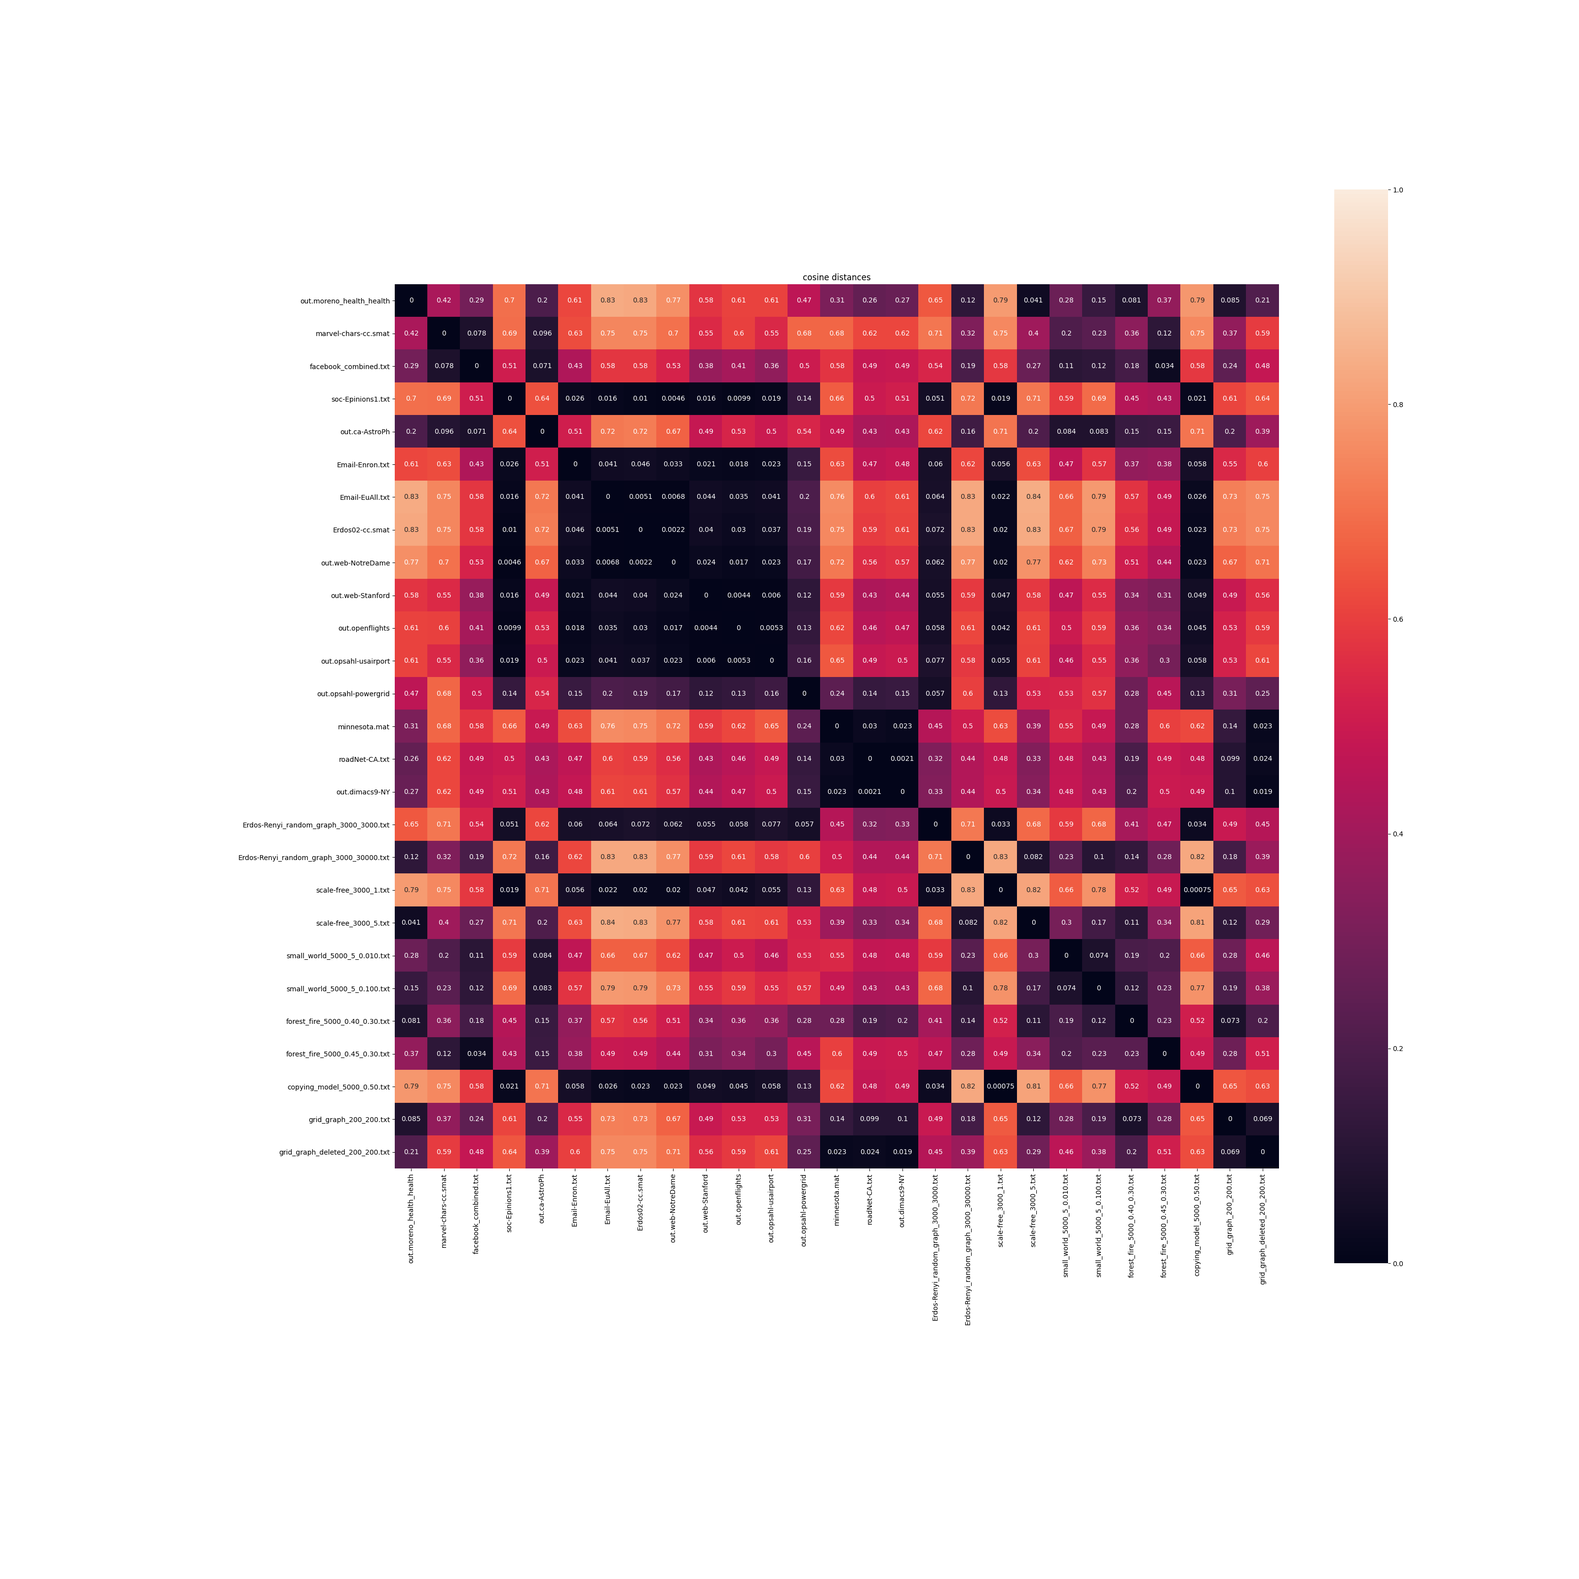
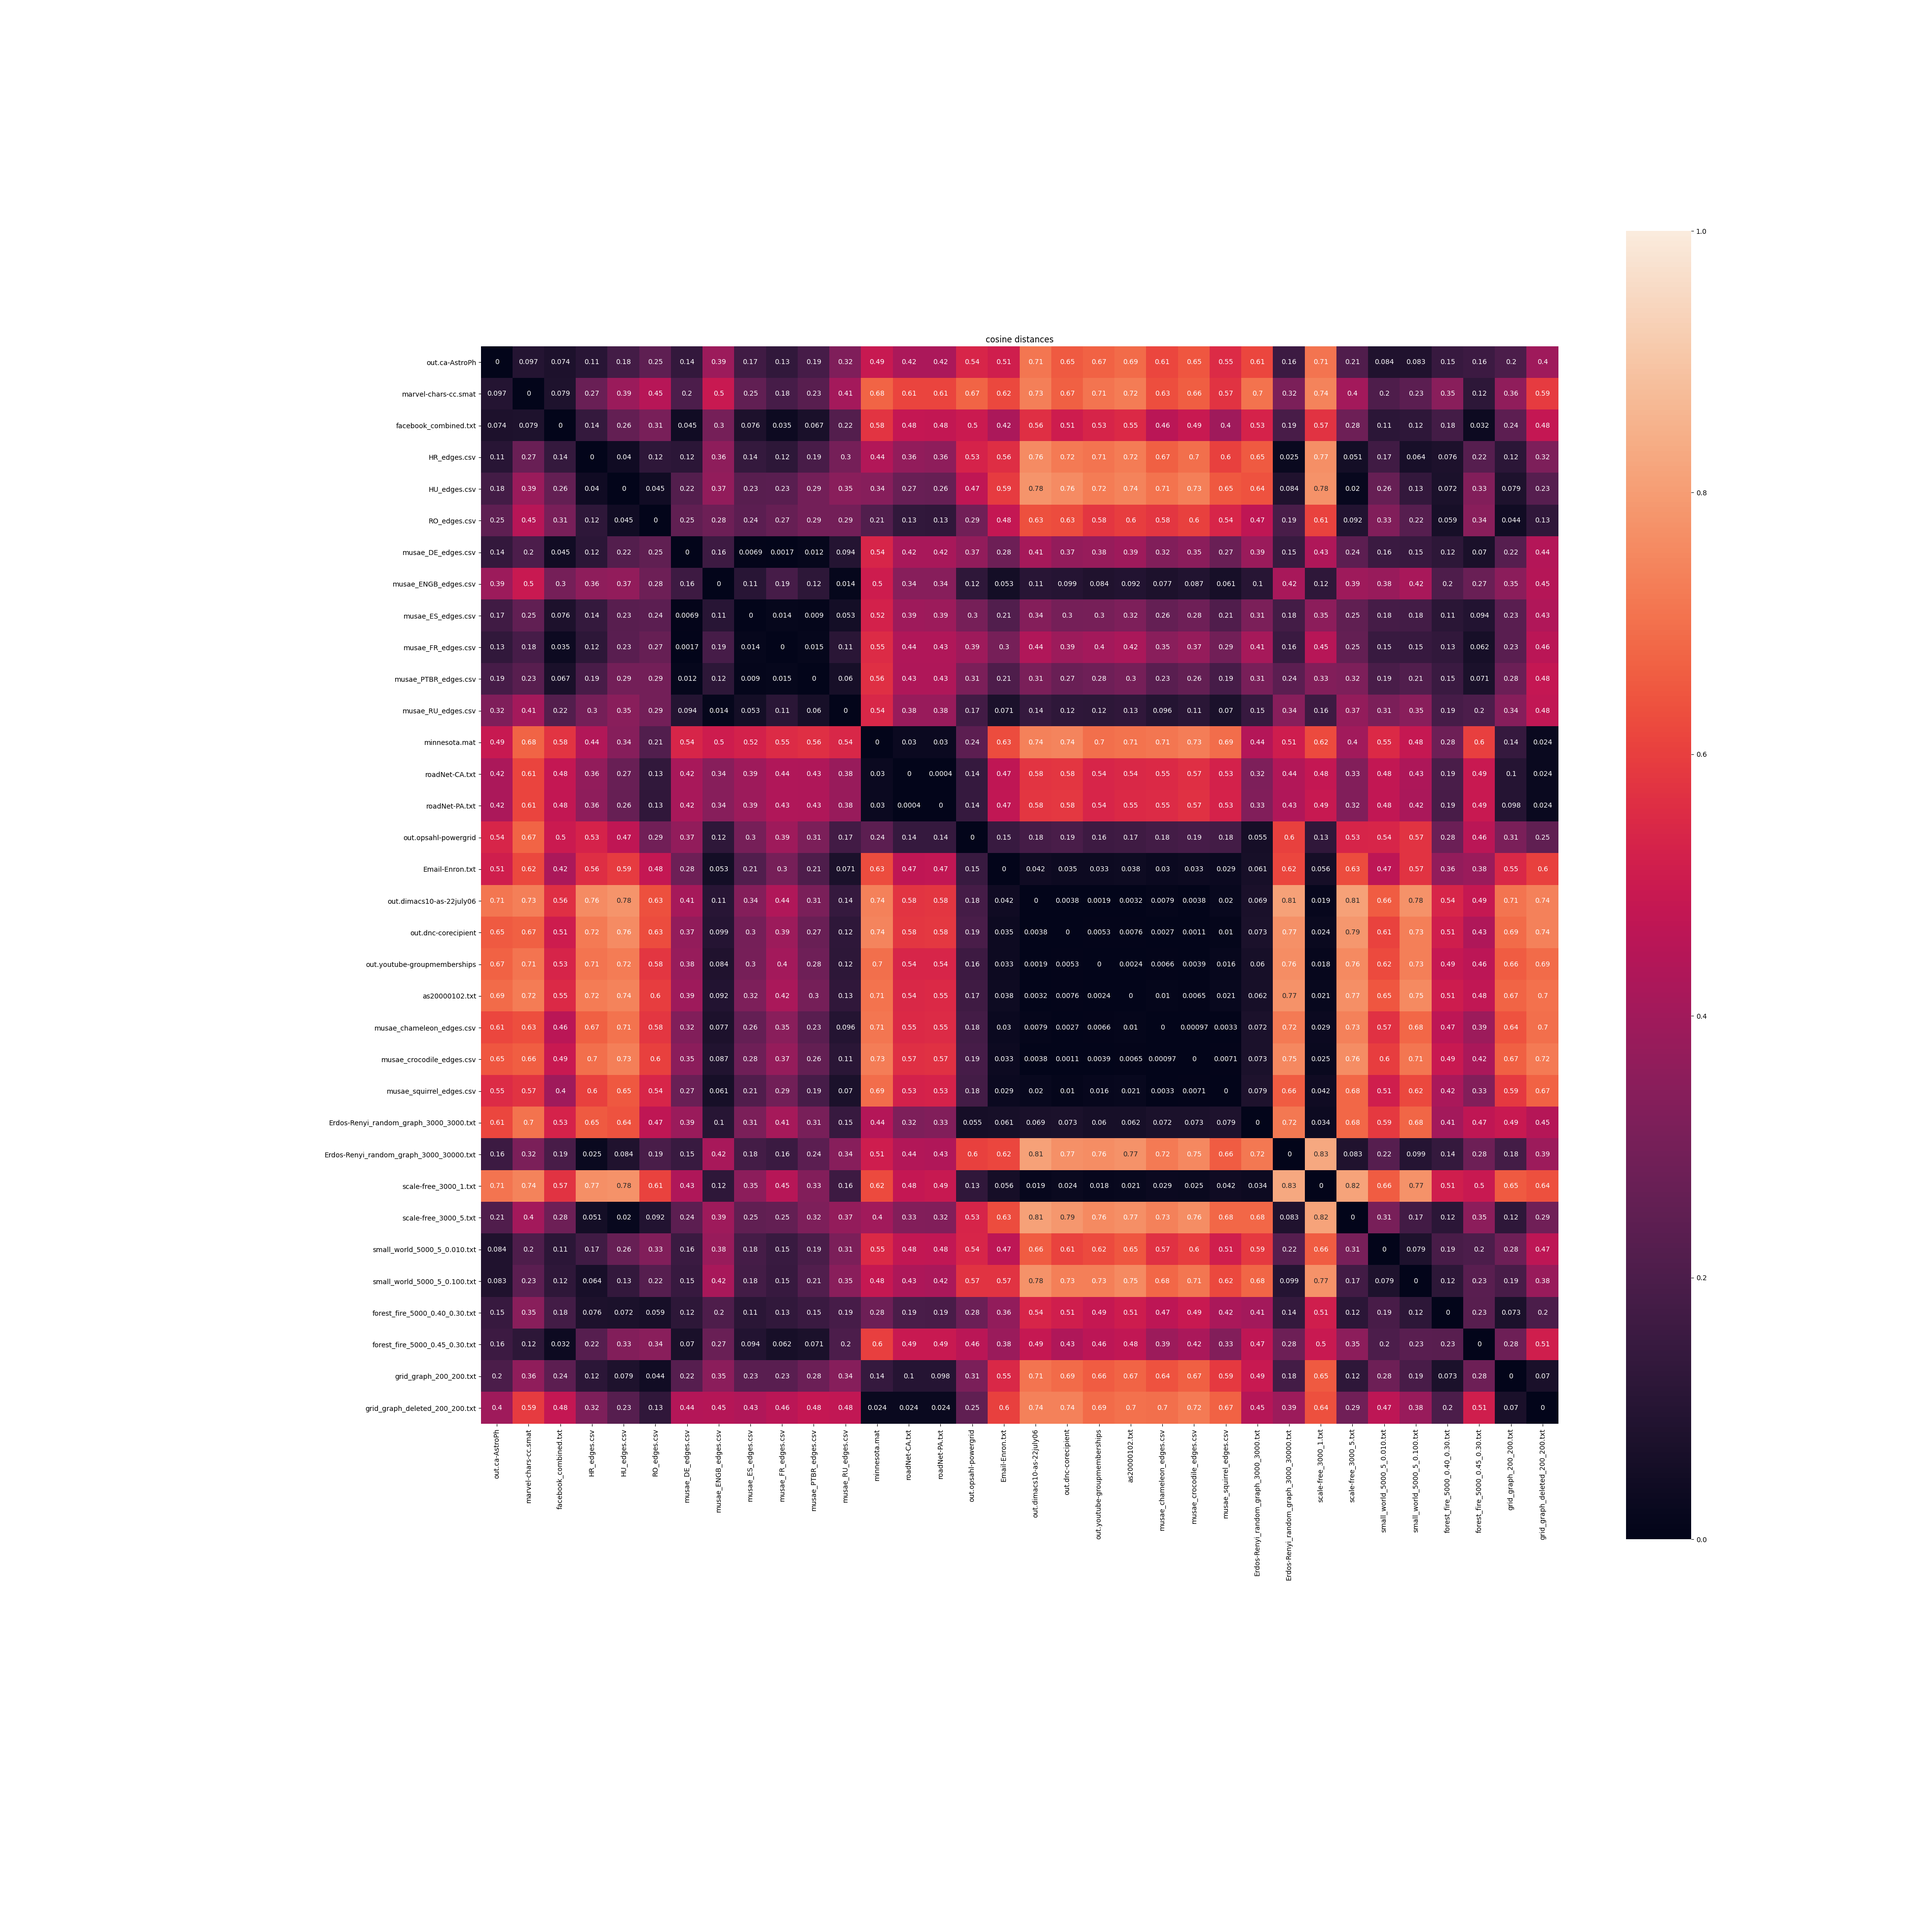
use only undirected graph

Changed region(s): [[0.1875, 0.1562, 0.8125, 0.8125]]

diff --git a/demo/demo_heatmap.py b/demo/demo_heatmap.py
@@ -34,29 +34,40 @@ if __name__ == '__main__':
     par_dir = '../data/'
     db_dir = '../moments_db/'
     files = [
-        # human social networks
-        "konect/moreno_health/out.moreno_health_health",
+        # collaboration networks
+        "konect/ca-AstroPh/out.ca-AstroPh",
         # social networks
         "graph-eigs-v1/marvel-chars-cc.smat",
         "snap/facebook_combined.txt",
-        "snap/soc-Epinions1.txt",
-        # collaboration networks
-        "konect/ca-AstroPh/out.ca-AstroPh",
-        # communication networks
-        "snap/Email-Enron.txt",
-        "snap/Email-EuAll.txt",  # Autonomous systems
-        "graph-eigs-v1/Erdos02-cc.smat",  #(Erdos02-cc - Pajek's Erdos sample file, largest connected component.as-caida20060911 - SNAP)
-        # hyper-link(web graph)
-        "konect/web-NotreDame/out.web-NotreDame",
-        "konect/web-Stanford/out.web-Stanford",
-        # infrastructure
-        "konect/openflights/out.openflights",
-        "konect/opsahl-usairport/out.opsahl-usairport",
-        "konect/opsahl-powergrid/out.opsahl-powergrid",
+        "snap/deezer_clean_data/HR_edges.csv",
+        "snap/deezer_clean_data/HU_edges.csv",
+        "snap/deezer_clean_data/RO_edges.csv",
+        "snap/twitch/DE/musae_DE_edges.csv",
+        "snap/twitch/ENGB/musae_ENGB_edges.csv",
+        "snap/twitch/ES/musae_ES_edges.csv",
+        "snap/twitch/FR/musae_FR_edges.csv",
+        "snap/twitch/PTBR/musae_PTBR_edges.csv",
+        "snap/twitch/RU/musae_RU_edges.csv",
         # road network
         "minnesota.mat",
         "snap/roadNet-CA.txt",
-        "konect/dimacs9-NY/out.dimacs9-NY",
+        "snap/roadNet-PA.txt",
+        # infrastructure
+        "konect/opsahl-powergrid/out.opsahl-powergrid",
+        # Communication networks
+        "snap/Email-Enron.txt",
+        # Computer network
+        "konect/dimacs10-as-22july06/out.dimacs10-as-22july06",
+        # Online contact network
+        "konect/dnc-corecipient/out.dnc-corecipient",
+        # Affiliation network
+        "konect/youtube-groupmemberships/out.youtube-groupmemberships",
+        # Autonomous systems graphs
+        "snap/as20000102.txt",
+        # Wikipedia Article Networks
+        "snap/wikipedia/chameleon/musae_chameleon_edges.csv",
+        "snap/wikipedia/crocodile/musae_crocodile_edges.csv",
+        "snap/wikipedia/squirrel/musae_squirrel_edges.csv",
         # models
         "gen_model/Erdos-Renyi_random_graph_3000_3000.txt",
         "gen_model/Erdos-Renyi_random_graph_3000_30000.txt",
@@ -66,7 +77,6 @@ if __name__ == '__main__':
         "gen_model/small_world_5000_5_0.100.txt",
         "gen_model/forest_fire_5000_0.40_0.30.txt",
         "gen_model/forest_fire_5000_0.45_0.30.txt",
-        "gen_model/copying_model_5000_0.50.txt",
         "gen_model/grid_graph_200_200.txt",
         "gen_model/grid_graph_deleted_200_200.txt"
     ]
